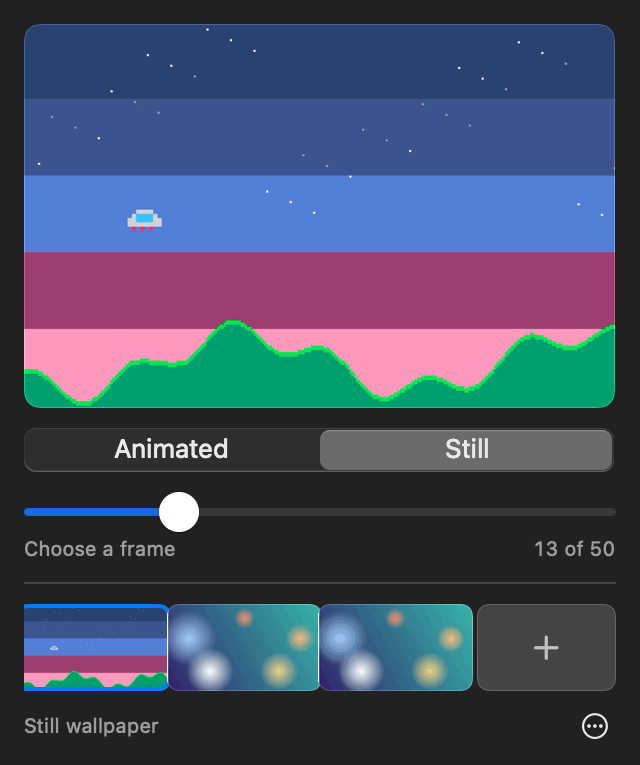
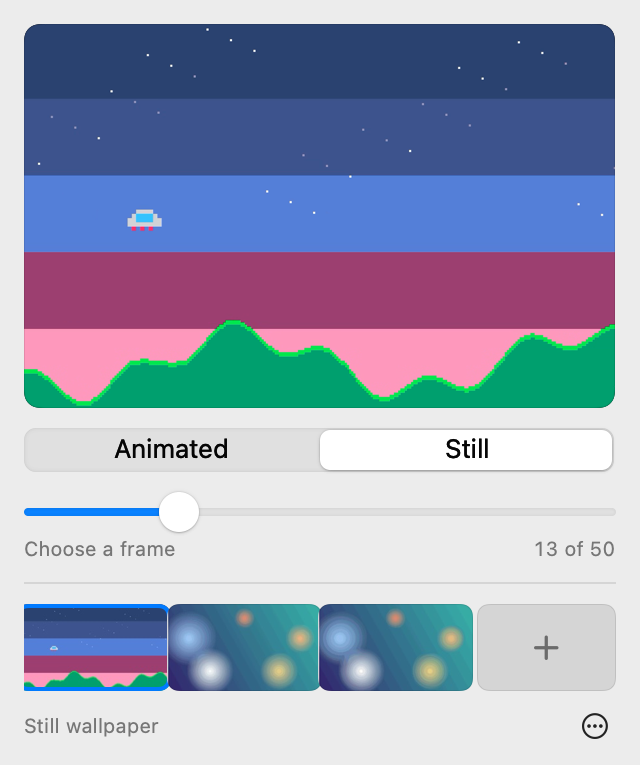
docs: add README, license, changelog, CI and release guide

diff --git a/Sources/Lull/Views/WallpaperTile.swift b/Sources/Lull/Views/WallpaperTile.swift
@@ -18,30 +18,37 @@ struct WallpaperTile: View {
 
     var body: some View {
         Button(action: action) {
-            ZStack {
-                shape.fill(.quaternary)
-                if let image {
-                    Image(nsImage: image)
-                        .resizable()
-                        .aspectRatio(contentMode: .fill)
+            shape.fill(.quaternary)
+                .aspectRatio(16.0 / 10.0, contentMode: .fit)
+                .overlay {
+                    // In an overlay, a wider image can't change the tile's size.
+                    if let image {
+                        Image(nsImage: image)
+                            .resizable()
+                            .scaledToFill()
+                    }
                 }
-                switch state {
-                case .ready:
-                    EmptyView()
-                case .missing:
-                    shape.fill(.black.opacity(0.45))
-                    Text("Missing")
-                        .font(.caption2)
-                        .foregroundStyle(.white)
-                case .working(let progress):
-                    shape.fill(.black.opacity(0.35))
-                    ProgressView(value: min(max(progress, 0), 1))
-                        .progressViewStyle(.circular)
-                        .controlSize(.small)
-                        .tint(.white)
+                .overlay {
+                    switch state {
+                    case .ready:
+                        EmptyView()
+                    case .missing:
+                        ZStack {
+                            shape.fill(.black.opacity(0.45))
+                            Text("Missing")
+                                .font(.caption2)
+                                .foregroundStyle(.white)
+                        }
+                    case .working(let progress):
+                        ZStack {
+                            shape.fill(.black.opacity(0.35))
+                            ProgressView(value: min(max(progress, 0), 1))
+                                .progressViewStyle(.circular)
+                                .controlSize(.small)
+                                .tint(.white)
+                        }
+                    }
                 }
-            }
-            .aspectRatio(16.0 / 10.0, contentMode: .fit)
             .clipShape(shape)
             .overlay(shape.strokeBorder(.separator, lineWidth: 0.5))
             .overlay {

diff --git a/Sources/Lull/StatusItemController.swift b/Sources/Lull/StatusItemController.swift
@@ -41,6 +41,8 @@ final class StatusItemController: NSObject, NSPopoverDelegate {
         popover.animates = true
         popover.contentViewController = hosting
         popover.delegate = self
+        // Left alone, it inherits from the menu bar, whose look depends on the real wallpaper.
+        popover.appearance = NSApp.effectiveAppearance
         self.popover = popover
         NSApp.activate()
         popover.show(relativeTo: button.bounds, of: button, preferredEdge: .minY)

diff --git a/README.md b/README.md
@@ -1,0 +1,117 @@
+<p align="center"><img src="docs/images/icon.png" width="128" alt="Lull app icon"></p>
+
+<h1 align="center">Lull</h1>
+
+<p align="center">GIFs and looping videos as your Mac wallpaper. It rests when nobody's looking.</p>
+
+Lull is a very light menu bar app for macOS. Drag in a GIF or video you already have and it becomes your wallpaper, behind your desktop icons. When you can't see the wallpaper, Lull stops doing work: the video player is fully unloaded and CPU use drops to zero.
+
+It's a 2 MB native app with no accounts, analytics or network use. Free and open source under the MIT license.
+
+<p align="center">
+  <img src="docs/images/panel-dark.png" width="320" alt="The Lull panel in dark mode">
+  <img src="docs/images/panel-light.png" width="320" alt="The Lull panel in light mode">
+</p>
+
+## Features
+
+- **GIFs, MP4 and MOV.** Each file is prepared once, then played on your Mac's video hardware.
+- **Desktop Focus or Whenever Visible.** By default the wallpaper plays only when you click the desktop. Switch to Whenever Visible to have it play whenever part of it can be seen.
+- **Still or Animated.** Freeze any wallpaper and drag a slider to pick the exact frame. Your desktop updates as you drag.
+- **Smooth Motion.** Generates in-between frames for GIFs and videos, up to 120 FPS, using Apple's frame rate conversion. It runs once and the result is saved.
+- **Frame limits.** Lower a fast video to 60 or 30 FPS to save power.
+- **Sharp pixel art.** Small GIFs are enlarged before encoding so pixel art stays crisp.
+- **Multiple displays.** One wallpaper across every screen, decoded once.
+
+Your real wallpaper setting is never changed. Quit Lull and your normal wallpaper is back.
+
+## Install
+
+Requires macOS 15.4 or later on Apple Silicon.
+
+1. Download the latest DMG from [Releases](https://github.com/markoderic/lull/releases).
+2. Drag Lull to Applications and open it.
+3. Click the icon in your menu bar and add a GIF or video.
+
+### Build from source
+
+```bash
+git clone https://github.com/markoderic/lull.git
+cd lull
+scripts/build-app.sh
+open dist/release/Lull.app
+```
+
+You need Xcode 26 or later. There's no Xcode project to generate: it's a Swift package, and `Package.swift` opens directly in Xcode.
+
+## How light is it?
+
+Measured on the release build on an M5 Pro MacBook Pro with macOS 27. CPU figures are percentages of one core, and this chip has 18. WindowServer is the system process that draws everything on screen, and it sat around 4–5% before Lull did anything.
+
+| What's on screen | Lull | Video decoder | WindowServer | Lull's memory | Decoder's memory |
+|---|---|---|---|---|---|
+| Paused, another app focused | 0.00% | 0% | no added load | 16 MB | up to 36 MB |
+| Still wallpaper | 0.00% | 0% | no added load | 24 MB | none |
+| GIF at its own 12.5 FPS | 1.1% | 0.8% | 9.6% | 21 MB | 23 MB |
+| 1080p video, 30 FPS | 1.6% | 1.7% | 13.4% | 28 MB | 51 MB |
+| GIF with Smooth Motion, 120 FPS | 3.6% | 4.3% | 44.6% | 22 MB | 55 MB |
+| 4K video, 120 FPS | 4.1% | 7.0% | 44.9% | 56 MB | 430 MB |
+
+Two honest notes:
+
+- **120 FPS is the expensive part.** It keeps WindowServer redrawing the screen 120 times a second, whatever the resolution. That's why Smooth Motion is off by default and the 120 option says it uses more power.
+- **Memory grows a little after Smooth Motion.** The Neural Engine holds on to about 13 MB until you quit, so Lull can sit around 36 MB after using it. A still wallpaper with no Smooth Motion stays closer to 24 MB.
+
+These are from one Mac and a small number of samples, so treat them as a guide. Battery life and slower Macs haven't been measured yet.
+
+## How it works
+
+macOS has no public way to set an animated wallpaper, only still images. Lull places a borderless window at the desktop window level, which sits above the real wallpaper and below your icons, and ignores all clicks.
+
+GIF is a costly format to play directly, because it's decoded on the CPU. So Lull converts each file once, on import, to an efficient HEVC video, and from then on Apple's standard player runs it on the video hardware. One player feeds every display.
+
+To decide when to play, Lull listens for system events such as focus changes, locking and sleep. It works out whether the desktop is covered from window positions, because `NSWindow.occlusionState` proved unreliable in testing. That check runs every 2 seconds, and only when its answer could change anything.
+
+The design and the evidence behind it are in [the design spec](docs/superpowers/specs/2026-11-06-lull-design.md).
+
+## Known limitations
+
+- **Desktop only.** The lock screen shows your normal wallpaper.
+- **Menu bar colors follow your real wallpaper.** macOS picks the menu bar's text color from it, without knowing about the animation on top. A wallpaper that's much lighter or darker than your real one can make menu bar text harder to read.
+- **Translucent full-screen windows count as covering the desktop,** so the wallpaper pauses behind them.
+- **Fast clicks on the desktop can pause briefly** on systems that show extra windows at the moment of the click. Lull ignores the ones it knows about.
+- **WebM isn't supported,** because Apple's video frameworks don't reliably open it.
+- **Smooth Motion has limits.** Thin lines can wobble in generated frames, and hard cuts become a very quick dissolve.
+
+## Not yet tested
+
+Automated and hands-on checks ran on one Mac with one display. These haven't been tried yet:
+
+- More than one display
+- More than one Space
+- macOS versions older than 27
+- Battery life and slower Macs
+
+If you try any of them, an issue saying how it went would help.
+
+## Development
+
+```bash
+swift test               # unit and integration tests
+python3 scripts/e2e/run.py   # end-to-end checks on your real desktop
+```
+
+The end-to-end checks drive a debug build against a throwaway library, so your own wallpapers aren't touched. They take over your screen for a few minutes and need `ffmpeg` to generate test files. The automation they use is compiled only into debug builds.
+
+| Path | What's there |
+|---|---|
+| `Sources/LullCore` | Everything testable without a UI: importing, Smooth Motion, the library, the pause rule, coverage |
+| `Sources/Lull` | The app: wallpaper engine, playback monitor, menu bar panel |
+| `Tests/LullCoreTests` | Unit and integration tests, using real files and real encoders |
+| `scripts/` | Build, release, icon and end-to-end tooling |
+
+Lull has no third-party dependencies, and that's on purpose.
+
+## License
+
+[MIT](LICENSE)

diff --git a/docs/superpowers/specs/2026-11-06-lull-design.md b/docs/superpowers/specs/2026-11-06-lull-design.md
@@ -138,6 +138,21 @@ The panel opens with the standard popover animation. Wallpaper changes crossfade
 | Display connected, removed or changed | Windows rebuilt. |
 | Coverage check fails | Assumes visible. |
 
+## Measured results of the finished app (M5 Pro, macOS 27.0.1, release build)
+
+CPU is a percentage of one core, on an 18-core chip. WindowServer sat around 4–5% before Lull did anything.
+
+| What's on screen | Lull | Decoder | WindowServer | Lull memory | Decoder memory |
+|---|---|---|---|---|---|
+| Paused, another app focused | 0.00% | 0% | no added load | 16 MB | up to 36 MB |
+| Still wallpaper | 0.00% | 0% | no added load | 24 MB | none |
+| GIF at its own 12.5 FPS | 1.1% | 0.8% | 9.6% | 21 MB | 23 MB |
+| 1080p video, 30 FPS | 1.6% | 1.7% | 13.4% | 28 MB | 51 MB |
+| GIF with Smooth Motion, 120 FPS | 3.6% | 4.3% | 44.6% | 22 MB | 55 MB |
+| 4K video, 120 FPS | 4.1% | 7.0% | 44.9% | 56 MB | 430 MB |
+
+13 MB at launch with no wallpaper. A still wallpaper had zero idle wakeups over 10 seconds. After Smooth Motion the Neural Engine keeps about 13 MB until quit, so memory can sit around 36 MB.
+
 ## Measured evidence (M5 Pro, macOS 27.0.1, throwaway prototype)
 
 | What's playing | GPU | Total CPU (% of one core) | Share of whole CPU |

diff --git a/docs/RELEASING.md b/docs/RELEASING.md
@@ -1,0 +1,39 @@
+# Releasing
+
+## First time only
+
+Store notarization credentials. This asks for an app-specific password, which you create at [account.apple.com](https://account.apple.com).
+
+```bash
+xcrun notarytool store-credentials lull-notary --apple-id you@example.com --team-id B376DM5LNP
+```
+
+Publish the repository:
+
+```bash
+gh repo create markoderic/lull --public --source . --push --description "GIFs and looping videos as your Mac wallpaper. It rests when nobody's looking."
+```
+
+## Each release
+
+1. Update the version in `Resources/Info.plist` and add an entry to `CHANGELOG.md`.
+2. Run the tests:
+
+   ```bash
+   swift test
+   python3 scripts/e2e/run.py
+   ```
+
+3. Build, sign and notarize:
+
+   ```bash
+   NOTARY_PROFILE=lull-notary SIGN_IDENTITY="Developer ID Application: Marko Deric (B376DM5LNP)" scripts/release.sh
+   ```
+
+4. Publish, replacing the version in both places:
+
+   ```bash
+   gh release create v1.0.0 dist/Lull-1.0.0.dmg --title "Lull 1.0.0" --notes-file CHANGELOG.md
+   ```
+
+Without notarization, downloaders see a macOS warning and have to approve the app in System Settings.

diff --git a/CHANGELOG.md b/CHANGELOG.md
@@ -1,0 +1,13 @@
+# Changelog
+
+## 1.0.0
+
+First release.
+
+- GIFs, MP4 and MOV as a desktop wallpaper, prepared once and played on the video hardware
+- Desktop Focus and Whenever Visible pause rules
+- Still or Animated per wallpaper, with a live frame slider
+- Smooth Motion up to 120 FPS, and frame limits for fast videos
+- Full unload while paused, with exact-frame resume
+- Library in the menu bar panel, with drag and drop
+- Launch at Login
